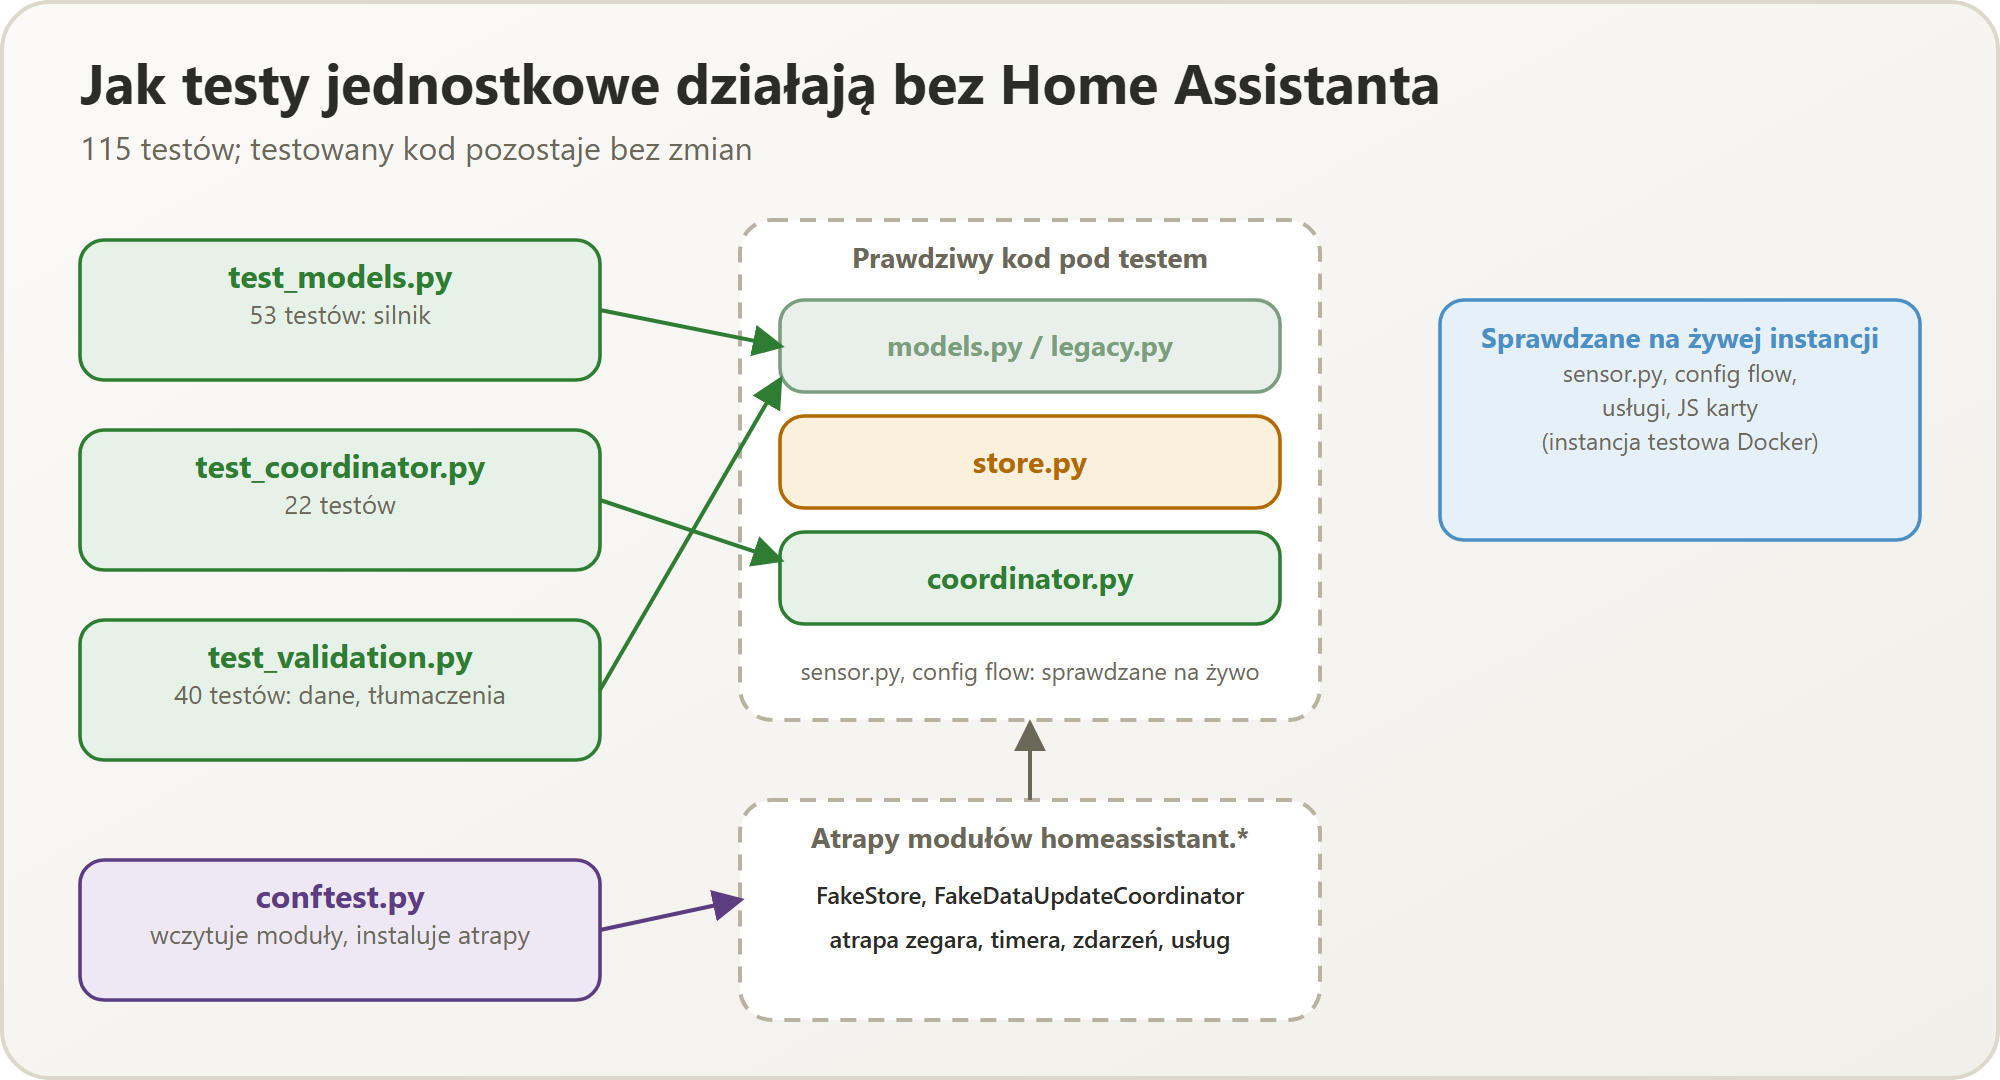
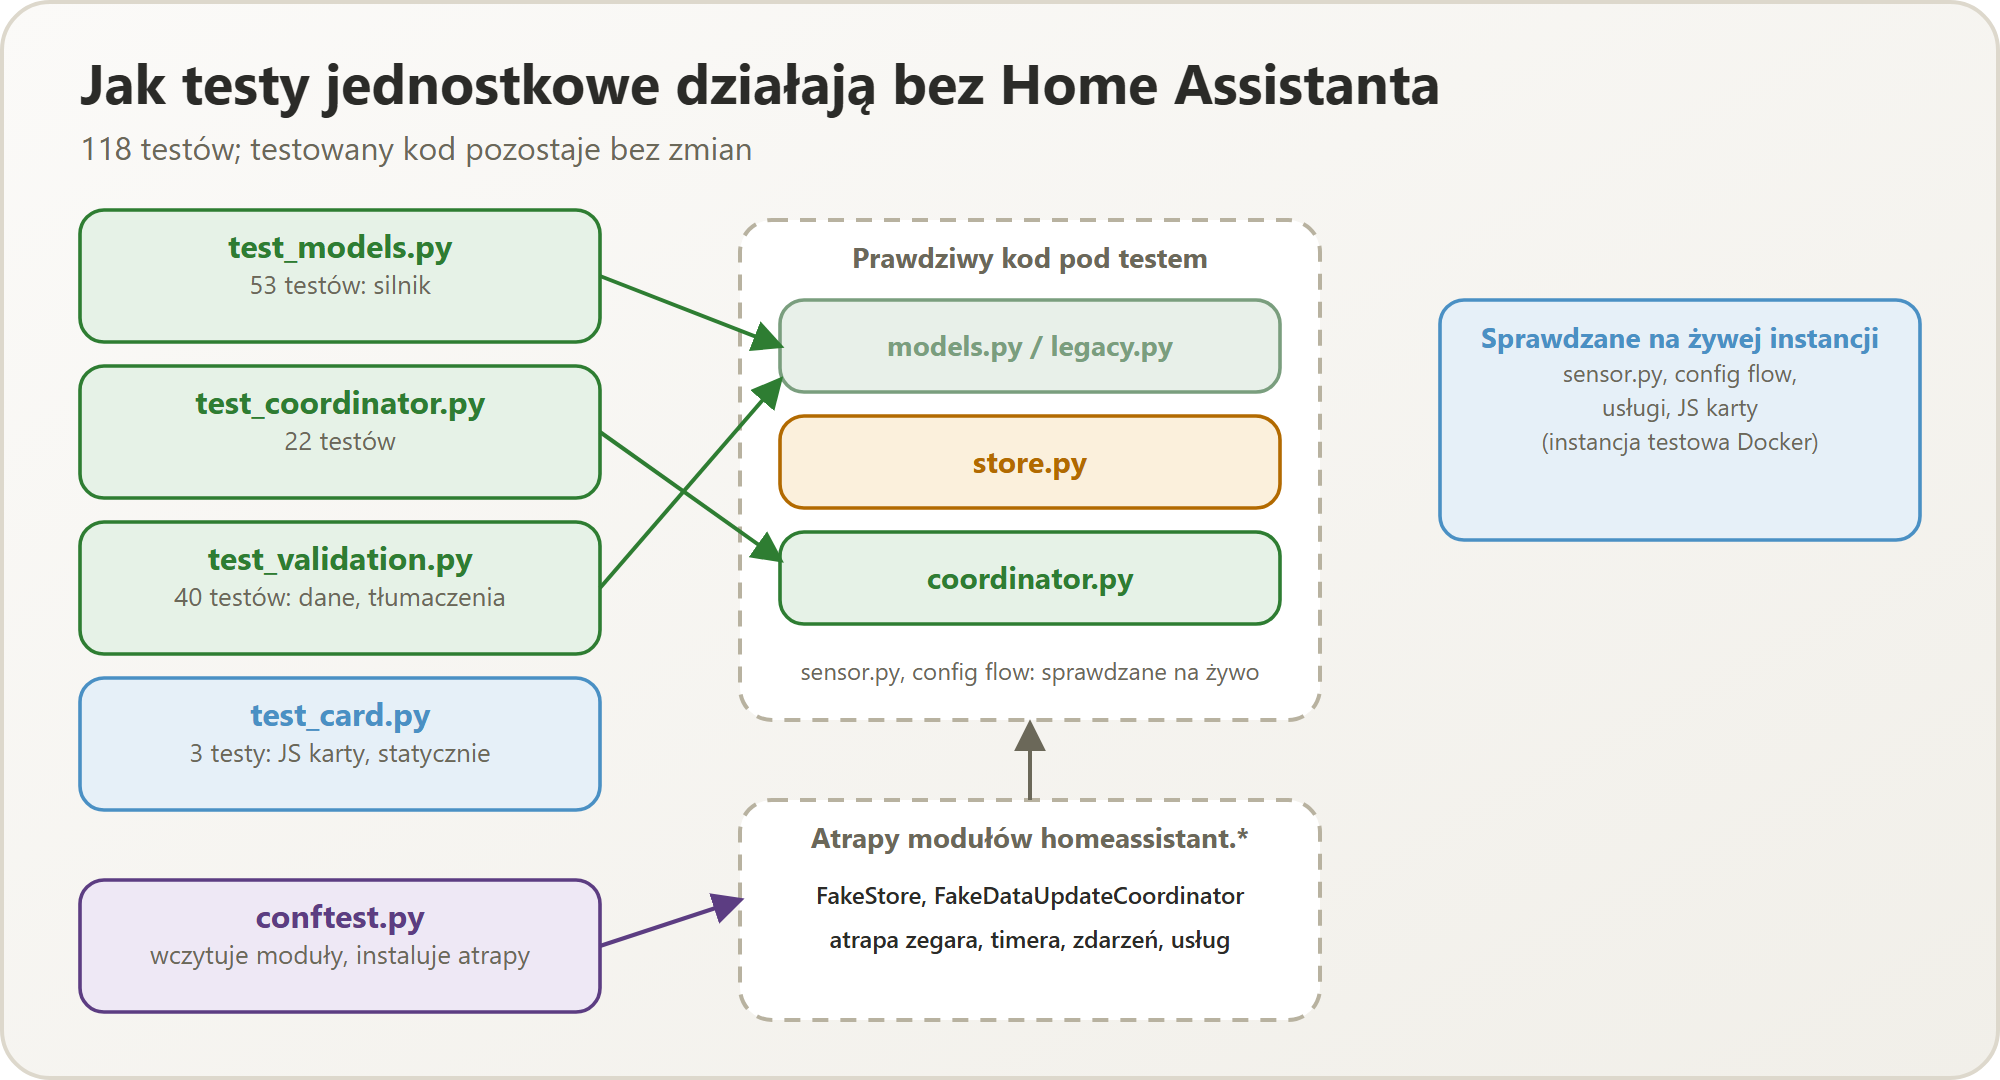
Card editor: say where a schedule's name and times are edited; card checks in the test suite
The card's editor only chooses which schedule to show, so someone looking for the name
or the times had no way to know they live in the integration's settings. The editor now
says so (in all seven languages) and links to those settings; CARD_VERSION 9.
New tests/test_card.py: the card JS must parse (node --check), every language block must
have the same keys, and the card and its editor must tolerate hass arriving before the
config. Documentation, screenshot, diagram and test counts (118) updated.

diff --git a/custom_components/how_many_times_today/www/how-many-times-today-card.js b/custom_components/how_many_times_today/www/how-many-times-today-card.js
@@ -65,6 +65,8 @@ const CARD_STRINGS = {
     overdue_prefix: "overdue by",
     entity_not_found: "Entity not found",
     editor_entity_label: "Schedule sensor",
+    editor_hint: "The name, description, times, start and end of a schedule are edited in the settings of the integration, not here.",
+    editor_open_settings: "Open the integration settings",
     inactive_label: "inactive",
     pending_label: "not started yet",
     status_pending: "Not started yet",
@@ -98,6 +100,8 @@ const CARD_STRINGS = {
     overdue_prefix: "spóźnienie o",
     entity_not_found: "Nie znaleziono encji",
     editor_entity_label: "Sensor harmonogramu",
+    editor_hint: "Nazwę, opis, godziny, start i koniec harmonogramu edytujesz w ustawieniach integracji, nie tutaj.",
+    editor_open_settings: "Otwórz ustawienia integracji",
     inactive_label: "nieaktywne",
     pending_label: "jeszcze nie wystartował",
     status_pending: "Jeszcze się nie zaczęło",
@@ -131,6 +135,8 @@ const CARD_STRINGS = {
     overdue_prefix: "überfällig um",
     entity_not_found: "Entität nicht gefunden",
     editor_entity_label: "Zeitplan-Sensor",
+    editor_hint: "Name, Beschreibung, Uhrzeiten, Start und Ende eines Zeitplans bearbeitest du in den Einstellungen der Integration, nicht hier.",
+    editor_open_settings: "Einstellungen der Integration öffnen",
     inactive_label: "inaktiv",
     pending_label: "noch nicht gestartet",
     status_pending: "Noch nicht gestartet",
@@ -164,6 +170,8 @@ const CARD_STRINGS = {
     overdue_prefix: "просрочено на",
     entity_not_found: "Сущность не найдена",
     editor_entity_label: "Сенсор расписания",
+    editor_hint: "Название, описание, время, начало и конец расписания изменяются в настройках интеграции, а не здесь.",
+    editor_open_settings: "Открыть настройки интеграции",
     inactive_label: "неактивно",
     pending_label: "ещё не началось",
     status_pending: "Ещё не началось",
@@ -197,6 +205,8 @@ const CARD_STRINGS = {
     overdue_prefix: "прострочено на",
     entity_not_found: "Сутність не знайдено",
     editor_entity_label: "Сенсор розкладу",
+    editor_hint: "Назву, опис, час, початок і кінець розкладу змінюють у налаштуваннях інтеграції, а не тут.",
+    editor_open_settings: "Відкрити налаштування інтеграції",
     inactive_label: "неактивно",
     pending_label: "ще не почалося",
     status_pending: "Ще не почалося",
@@ -230,6 +240,8 @@ const CARD_STRINGS = {
     overdue_prefix: "已超时",
     entity_not_found: "未找到实体",
     editor_entity_label: "计划传感器",
+    editor_hint: "日程的名称、说明、时间、开始和结束请在集成设置中编辑，而不是在这里。",
+    editor_open_settings: "打开集成设置",
     inactive_label: "未启用",
     pending_label: "尚未开始",
     status_pending: "尚未开始",
@@ -700,6 +712,8 @@ class HowManyTimesTodayCardEditor extends HTMLElement {
     this.shadowRoot.innerHTML = `
       <style>
         .wrap { padding: 12px 0; }
+        .hint { margin: 16px 0 8px; color: var(--secondary-text-color); line-height: 1.4; }
+        .hint-link { color: var(--primary-color); font-weight: 500; }
       </style>
       <div class="wrap"></div>
     `;
@@ -722,7 +736,22 @@ class HowManyTimesTodayCardEditor extends HTMLElement {
     });
 
     this._picker = picker;
-    this.shadowRoot.querySelector(".wrap").appendChild(picker);
+    const wrap = this.shadowRoot.querySelector(".wrap");
+    wrap.appendChild(picker);
+
+    // The card only chooses WHICH schedule to show; the schedule itself (name, times,
+    // start/end) lives in the integration's options, so say so and link to it
+    const hint = document.createElement("p");
+    hint.className = "hint";
+    hint.textContent = translate(this._hass.language, "editor_hint");
+    const link = document.createElement("a");
+    link.className = "hint-link";
+    link.href = "/config/integrations/integration/how_many_times_today";
+    link.target = "_blank";
+    link.rel = "noopener";
+    link.textContent = translate(this._hass.language, "editor_open_settings");
+    wrap.appendChild(hint);
+    wrap.appendChild(link);
   }
 }
 

diff --git a/tools/make_diagrams.py b/tools/make_diagrams.py
@@ -18,7 +18,7 @@ from svglib import (  # noqa: E402
 )
 
 OUT = Path(__file__).resolve().parents[1] / "docs" / "images"
-TESTS = {"models": 53, "coordinator": 22, "validation": 40}
+TESTS = {"models": 53, "coordinator": 22, "validation": 40, "card": 3}
 TESTS_TOTAL = sum(TESTS.values())
 
 
@@ -380,10 +380,11 @@ def diagrams(lang: str):
     # 14 --------------------------------------------------------------- test architecture
     s = new("test-architecture", 1000, 540, L("How the unit tests run without Home Assistant", "Jak testy jednostkowe działają bez Home Assistanta"),
             L(f"{TESTS_TOTAL} tests; the code under test is unchanged", f"{TESTS_TOTAL} testów; testowany kod pozostaje bez zmian"))
-    s.box(40, 120, 260, 70, "test_models.py", [L(f"{TESTS['models']} tests: the engine", f"{TESTS['models']} testów: silnik")], GREEN)
-    s.box(40, 215, 260, 70, "test_coordinator.py", [L(f"{TESTS['coordinator']} tests", f"{TESTS['coordinator']} testów")], GREEN)
-    s.box(40, 310, 260, 70, "test_validation.py", [L(f"{TESTS['validation']} tests: input, translations", f"{TESTS['validation']} testów: dane, tłumaczenia")], GREEN)
-    s.box(40, 430, 260, 70, "conftest.py", [L("loads modules, installs fakes", "wczytuje moduły, instaluje atrapy")], PURPLE)
+    s.box(40, 105, 260, 66, "test_models.py", [L(f"{TESTS['models']} tests: the engine", f"{TESTS['models']} testów: silnik")], GREEN)
+    s.box(40, 183, 260, 66, "test_coordinator.py", [L(f"{TESTS['coordinator']} tests", f"{TESTS['coordinator']} testów")], GREEN)
+    s.box(40, 261, 260, 66, "test_validation.py", [L(f"{TESTS['validation']} tests: input, translations", f"{TESTS['validation']} testów: dane, tłumaczenia")], GREEN)
+    s.box(40, 339, 260, 66, "test_card.py", [L(f"{TESTS['card']} tests: the card JS, static", f"{TESTS['card']} testy: JS karty, statycznie")], BLUE)
+    s.box(40, 440, 260, 66, "conftest.py", [L("loads modules, installs fakes", "wczytuje moduły, instaluje atrapy")], PURPLE)
     s.rect(370, 110, 290, 250, "#ffffff", LINE, 2, 16, "8 6")
     s.text(515, 134, L("Real code under test", "Prawdziwy kod pod testem"), 14, 700, MUTED, "middle", 270)
     s.box(390, 150, 250, 46, "models.py / legacy.py", [], SAGE, 14)
@@ -394,10 +395,10 @@ def diagrams(lang: str):
     s.text(515, 424, L("Fake homeassistant.* modules", "Atrapy modułów homeassistant.*"), 14, 700, MUTED, "middle", 270)
     s.text(515, 452, "FakeStore, FakeDataUpdateCoordinator", 12, 600, INK, "middle", 270)
     s.text(515, 474, L("fake clock, timer, event bus, services", "atrapa zegara, timera, zdarzeń, usług"), 12, 600, INK, "middle", 270)
-    s.arrow(300, 155, 390, 173, GREEN)
-    s.arrow(300, 250, 390, 280, GREEN)
-    s.arrow(300, 345, 390, 190, GREEN)
-    s.arrow(300, 465, 370, 450, PURPLE)
+    s.arrow(300, 138, 390, 173, GREEN)
+    s.arrow(300, 216, 390, 280, GREEN)
+    s.arrow(300, 294, 390, 190, GREEN)
+    s.arrow(300, 473, 370, 450, PURPLE)
     s.arrow(515, 400, 515, 362, MUTED)
     s.box(720, 150, 240, 120, L("Checked on a live instance", "Sprawdzane na żywej instancji"),
           ["sensor.py, config flow,", L("services, card JS", "usługi, JS karty"), L("(Docker test instance)", "(instancja testowa Docker)")], BLUE, 14, 12)

diff --git a/tests/test_card.py b/tests/test_card.py
@@ -1,0 +1,51 @@
+"""Static checks on the Lovelace card's JavaScript (it cannot be run without a browser)."""
+import re
+import shutil
+import subprocess
+from pathlib import Path
+
+import pytest
+
+CARD = (
+    Path(__file__).resolve().parents[1]
+    / "custom_components" / "how_many_times_today" / "www" / "how-many-times-today-card.js"
+)
+LANGUAGES = ["en", "pl", "de", "ru", "uk", "zh-hans"]
+
+
+@pytest.mark.skipif(shutil.which("node") is None, reason="Node.js is not installed")
+def test_card_javascript_is_syntactically_valid():
+    result = subprocess.run(["node", "--check", str(CARD)], capture_output=True, text=True)
+    assert result.returncode == 0, result.stderr
+
+
+def _blocks() -> dict[str, set[str]]:
+    """CARD_STRINGS language -> the set of its keys."""
+    text = CARD.read_text(encoding="utf-8")
+    start = text.index("const CARD_STRINGS = {")
+    body = text[start:text.index("\n};\n", start)]
+    blocks: dict[str, set[str]] = {}
+    current = None
+    for line in body.split("\n")[1:]:
+        header = re.match(r'^  "?([\w-]+)"?: \{$', line)
+        if header:
+            current = header.group(1)
+            blocks[current] = set()
+        elif current and (key := re.match(r"^    (\w+):", line)):
+            blocks[current].add(key.group(1))
+    return blocks
+
+
+def test_every_language_block_of_the_card_has_the_same_keys():
+    blocks = _blocks()
+    assert list(blocks) == LANGUAGES  # the legend test relies on this order
+    reference = blocks["en"]
+    for lang, keys in blocks.items():
+        assert keys == reference, f"{lang}: missing {sorted(reference - keys)}, extra {sorted(keys - reference)}"
+
+
+def test_the_editor_and_the_card_wait_for_the_config():
+    """Home Assistant hands `hass` over before setConfig(); both must tolerate that."""
+    text = CARD.read_text(encoding="utf-8")
+    assert "if (!this._config) return;" in text  # the card's hass setter
+    assert "if (!this._hass || !this._config) return;" in text  # the editor's render

diff --git a/custom_components/how_many_times_today/__init__.py b/custom_components/how_many_times_today/__init__.py
@@ -29,7 +29,7 @@ PLATFORMS = ["sensor"]
 _LOGGER = logging.getLogger(__name__)
 
 CARD_URL_PATH = f"/{DOMAIN}_files/how-many-times-today-card.js"
-CARD_VERSION = 8  # bump to bust browser/frontend caches whenever the card JS changes
+CARD_VERSION = 9  # bump to bust browser/frontend caches whenever the card JS changes
 
 
 async def async_migrate_entry(hass: HomeAssistant, entry: ConfigEntry) -> bool:

diff --git a/docs/TESTING.md b/docs/TESTING.md
@@ -4,7 +4,7 @@
 
 ## Unit tests (pytest)
 
-115 tests, no Home Assistant installation needed:
+118 tests, no Home Assistant installation needed:
 
 ```sh
 pip install -r requirements-test.txt
@@ -30,6 +30,9 @@ python -m pytest tests/ -v
   task/slot data (`legacy.py`), and translation completeness — the same keys in
   `strings.json` and every `translations/*.json`, all six languages present and actually
   translated, every state, error, service and form step the code uses has a text.
+- `tests/test_card.py` (3): static checks of the card's JavaScript — it parses (`node --check`,
+  skipped when Node.js is missing), every language block of its strings has the same keys,
+  and the card and its editor tolerate Home Assistant handing over `hass` before the config.
 - `tests/conftest.py` makes this possible without Home Assistant: it loads the
   integration's modules directly (bypassing `__init__.py`, which imports
   `homeassistant`) and installs minimal fake `homeassistant.*` modules — an in-memory

diff --git a/docs/TESTING.pl.md b/docs/TESTING.pl.md
@@ -4,7 +4,7 @@
 
 ## Testy jednostkowe (pytest)
 
-115 testów, bez instalacji Home Assistanta:
+118 testów, bez instalacji Home Assistanta:
 
 ```sh
 pip install -r requirements-test.txt
@@ -31,6 +31,10 @@ python -m pytest tests/ -v
   te same klucze w `strings.json` i każdym `translations/*.json`, wszystkie sześć języków
   obecnych i faktycznie przetłumaczonych, każdy stan, błąd, usługa i krok formularza
   używany w kodzie ma tekst.
+- `tests/test_card.py` (3): statyczne sprawdzenia JavaScriptu karty — parsuje się (`node
+  --check`, pomijane, gdy nie ma Node.js), każdy blok językowy jej napisów ma te same klucze,
+  a karta i jej edytor znoszą sytuację, gdy Home Assistant przekazuje `hass` przed
+  konfiguracją.
 - `tests/conftest.py` umożliwia to bez Home Assistanta: wczytuje moduły integracji
   bezpośrednio (omijając `__init__.py`, który importuje `homeassistant`) i instaluje
   minimalne atrapy modułów `homeassistant.*` — `Store` w pamięci (na poziomie klasy, więc

diff --git a/docs/CONFIGURATION.pl.md b/docs/CONFIGURATION.pl.md
@@ -224,13 +224,16 @@ przypadł podczas przestoju, po restarcie nadal jest otwarty.
 ## 8. Harmonogram na dashboardzie
 
 Dodaj jedną kartę na harmonogram. Przez UI użyj **Dodaj kartę → How Many Times Today** —
-edytor wizualny oferuje selektor encji ograniczony do sensorów tej integracji. Albo w
-YAML:
+edytor wizualny oferuje selektor encji ograniczony do sensorów tej integracji. Edytor karty tylko wybiera, **który harmonogram karta pokazuje**; zawiera też link do
+ustawień integracji, gdzie zmienia się nazwę, opis, godziny, start i koniec harmonogramu
+(sekcja 5). Albo w YAML:
 
 ```yaml
 type: custom:how-many-times-today-card
 entity: sensor.lek_na_serce
 ```
+
+![Edytor karty: wybiera harmonogram i linkuje do ustawień integracji](images/screenshot-card-editor.jpg)
 
 ![Karty harmonogramów na dashboardzie: czerwona, wyłączona i komunikaty w aplikacji](images/screenshot-card-dashboard.jpg)
 

diff --git a/docs/CONFIGURATION.md b/docs/CONFIGURATION.md
@@ -225,12 +225,16 @@ that came due while Home Assistant was down is still open afterwards.
 ## 8. A schedule on a dashboard
 
 Add one card per schedule. In the UI use **Add card → How Many Times Today** — a visual
-editor offers an entity picker limited to this integration's sensors. Or in YAML:
+editor offers an entity picker limited to this integration's sensors. The card's editor only chooses **which schedule the card shows**; it also links to the
+integration settings, where a schedule's name, description, times, start and end are
+changed (section 5). Or in YAML:
 
 ```yaml
 type: custom:how-many-times-today-card
 entity: sensor.heart_medication
 ```
+
+![The card editor: it chooses the schedule and links to the integration settings](images/screenshot-card-editor.jpg)
 
 ![Schedule cards on a dashboard: a red one, a switched-off one, and the in-app messages](images/screenshot-card-dashboard.jpg)
 

diff --git a/CHANGELOG.pl.md b/CHANGELOG.pl.md
@@ -49,7 +49,7 @@
 
 ### Jakość i dokumentacja
 
-- 115 testów jednostkowych (silnik, koordynator i magazyny, dane wejściowe i tłumaczenia)
+- 118 testów jednostkowych (silnik, koordynator i magazyny, dane wejściowe i tłumaczenia)
   działających bez instalacji Home Assistanta, w CI razem z walidacją hassfest / HACS.
 - Dwujęzyczne (angielski + polski) README, specyfikacja, przewodnik konfiguracji z
   prawdziwymi zrzutami UI, uwagi o testowaniu oraz generowane diagramy (SVG, z kopiami PNG).

diff --git a/CHANGELOG.md b/CHANGELOG.md
@@ -45,7 +45,7 @@
 
 ### Quality and documentation
 
-- 115 unit tests (engine, coordinator and stores, input and translations) running without a
+- 118 unit tests (engine, coordinator and stores, input and translations) running without a
   Home Assistant installation, in CI together with hassfest / HACS validation.
 - Bilingual (English + Polish) README, specification, configuration guide with real
   screenshots of the UI, testing notes, and generated diagrams (SVG, with PNG copies).

diff --git a/README.pl.md b/README.pl.md
@@ -85,7 +85,7 @@ zdarzenie `how_many_times_today_due`, a opcjonalny push idzie do aplikacji mobil
 
 ## Rozwój
 
-115 testów jednostkowych pokrywa silnik harmonogramów, magazyny i koordynator bez potrzeby
+118 testów jednostkowych pokrywa silnik harmonogramów, magazyny i koordynator bez potrzeby
 realnej instalacji Home Assistant (szczegóły w [docs/TESTING.pl.md](docs/TESTING.pl.md)):
 
 ```sh

diff --git a/README.md b/README.md
@@ -86,7 +86,7 @@ event `how_many_times_today_due` is fired, and an optional push goes to the mobi
 
 ## Development
 
-115 unit tests cover the scheduling engine, the stores and the coordinator without needing
+118 unit tests cover the scheduling engine, the stores and the coordinator without needing
 a real Home Assistant install (details in [docs/TESTING.md](docs/TESTING.md)):
 
 ```sh
